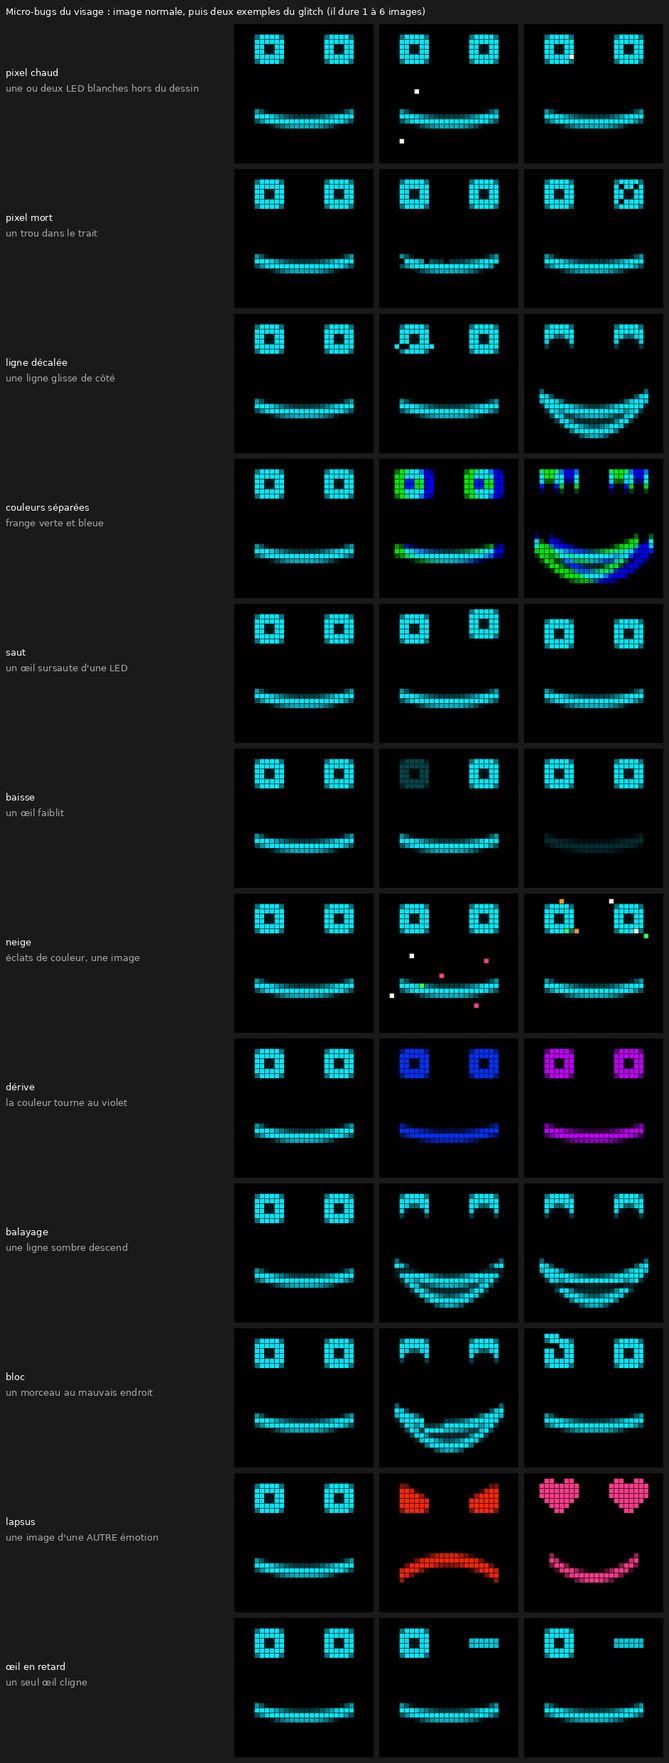
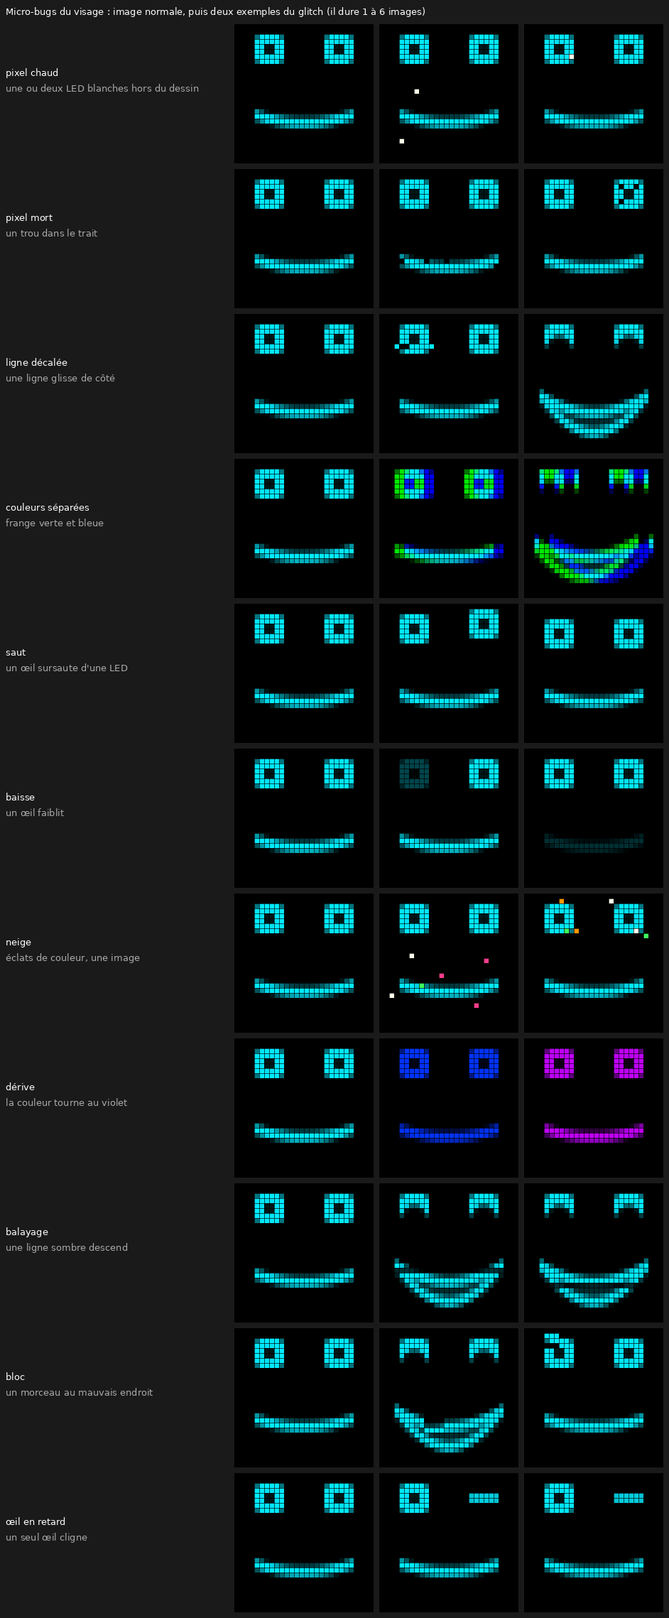
Étude visage §11 : décisions de David sur les glitchs, joué ou réel, GIF du résultat
Quoi : §11.6 (décisions) et §11.7 (comment distinguer un bug joué d'une vraie
panne) ; maquette_glitchs.py produit glitchs-resultat.gif (visage + ruban du
corps + LED témoin, 31 s : calme, montée, bug joué, retombée, vraie panne
réseau) ; lapsus retiré du catalogue ; calme à un micro-bug toutes les ~10 s.

Pourquoi : David (22/11) veut un calme un peu plus prononcé, pas de lapsus
(trop difficile à comprendre), et les vraies pannes dans la langue des glitchs
à condition de pouvoir faire la différence, animations LED du corps comprises.
Différence : une LED témoin côté David, pilotée UNIQUEMENT par la détection des
pannes (un bug joué ne peut pas l'allumer), plus l'allure (scintille / tient),
la montée et la durée. Reste à choisir la LED témoin.

diff --git a/docs/etudes/visage/maquette_glitchs.py b/docs/etudes/visage/maquette_glitchs.py
@@ -20,6 +20,8 @@ import maquette_visage as m
 
 ICI = Path(__file__).resolve().parent
 IPS = 20  # images par seconde du robot (tick de 50 ms)
+# Au calme, un micro-bug toutes les ~10 s (David, 22/11 : « un peu plus prononcé au calme »).
+P_CALME = 1 / (10 * IPS)
 
 
 # ---------------------------------------------------------------------------------------
@@ -143,7 +145,7 @@ CATALOGUE = [
     ("dérive", "la couleur tourne au violet", [avec(REPOS, derive, tour=0.12), avec(REPOS, derive, tour=0.28)]),
     ("balayage", "une ligne sombre descend", [avec(JOIE, balayage, ou=(2,), ligne=6), avec(JOIE, balayage, ou=(2,), ligne=9)]),
     ("bloc", "un morceau au mauvais endroit", [avec(JOIE, bloc, ou=(2,), cote=4, graine=6), avec(REPOS, bloc, ou=(0,), cote=3, graine=2)]),
-    ("lapsus", "une image d'une AUTRE émotion", [m.vignette(m.VOCABULAIRE["colère"]), m.vignette(m.VOCABULAIRE["amour"])]),
+    # « lapsus » (une image d'une autre émotion) : écarté par David le 22/11, trop difficile à comprendre.
     ("œil en retard", "un seul œil cligne", [assembler([zones(REPOS)[0], m.dessiner_oeil(m.replace(REPOS.oeil_d, hauteur=1.8, arrondi=0.6, pupille=0), miroir=True), zones(REPOS)[2]])] * 2),
 ]
 
@@ -207,7 +209,7 @@ def animation(sortie: Path) -> None:
                     z = [derive(x, tour=0.28) for x in z]
             else:
                 # micro-bugs : au calme un toutes les ~8 s, à tension 0,8 plus de deux par seconde
-                if en_cours is None and rng.random() < (0.006 + 0.14 * tension ** 2):
+                if en_cours is None and rng.random() < (P_CALME + 0.14 * tension ** 2):
                     effet, ou, dur, kw = MICRO[rng.integers(len(MICRO))]
                     en_cours, reste = (effet, ou[rng.integers(len(ou))], kw, int(rng.integers(1 << 30))), dur
                 if en_cours is not None:
@@ -227,6 +229,101 @@ def animation(sortie: Path) -> None:
     print("écrit", sortie.relative_to(m.RACINE), len(images), "images")
 
 
+# ---------------------------------------------------------------------------------------
+# Le résultat complet : visage + ruban du corps + témoin, joué puis réel.
+# ---------------------------------------------------------------------------------------
+ORANGE = np.array([255, 90, 0])
+VIOLET = np.array([150, 40, 255])
+N_CORPS = 28  # représentation réduite du ruban du corps (160 LED en vrai)
+
+
+def corps_chase(t: int, couleur=ORANGE, vitesse=1.0, k=1.0) -> np.ndarray:
+    """L'animation « chase me » du corps : un segment lumineux qui tourne sur un fond faible."""
+    ruban = np.tile((couleur * 0.12 * k).astype(np.uint8), (N_CORPS, 1))
+    tete = int(t * vitesse) % N_CORPS
+    for i in range(6):
+        ruban[(tete - i) % N_CORPS] = (couleur * k * (1 - i / 6)).astype(np.uint8)
+    return ruban
+
+
+def image_complete(z, ruban, temoin) -> np.ndarray:
+    """Visage (28x28) + ruban du corps (une ligne) + témoin, une LED à part."""
+    c = np.zeros((33, 32, 3), np.uint8)
+    c[:28, :28] = assembler(z)
+    c[30, :28] = ruban
+    c[30, 30] = temoin
+    return c
+
+
+def resultat(sortie: Path) -> None:
+    rng = np.random.default_rng(21)
+    images = []
+    plan = [  # (titre, durée s, mode)
+        ("calme — un micro-bug toutes les ~10 s", 12.0, "calme"),
+        ("ça monte", 4.0, "monte"),
+        ("BUG JOUÉ — le témoin reste éteint", 2.5, "bug"),
+        ("il se remet", 3.5, "remet"),
+        ("calme", 1.5, "calme"),
+        ("VRAIE PANNE : réseau perdu — témoin allumé", 6.0, "panne"),
+        ("réseau revenu", 2.0, "calme"),
+    ]
+    en_cours, reste, t = None, 0, 0
+    for titre, duree, mode in plan:
+        n = round(duree * IPS)
+        for i in range(n):
+            t += 1
+            tension = {"calme": 0.0, "monte": 0.05 + 0.75 * i / n, "bug": 1.0,
+                       "remet": 0.6 * (1 - i / n) ** 2, "panne": 0.0}[mode]
+            z = zones(REPOS)
+            ruban = corps_chase(t)
+            temoin = np.zeros(3, np.uint8)
+            if mode == "bug":
+                for k in range(3):
+                    z[k] = ligne_decalee(z[k], rng, lignes=2 if k == 2 else 1, dx=int(rng.integers(1, 4)))
+                    if rng.random() < 0.6:
+                        z[k] = couleurs_separees(z[k], dx=int(rng.integers(1, 3)))
+                    if rng.random() < 0.5:
+                        z[k] = neige(z[k], rng, n=3)
+                if i > n * 0.6:
+                    z = [derive(x, tour=0.28) for x in z]
+                # le corps s'emballe aussi : couleurs au hasard, segments qui sautent
+                ruban = np.roll(ruban, int(rng.integers(-6, 7)), axis=0)
+                for _ in range(6):
+                    ruban[rng.integers(N_CORPS)] = rng.integers(60, 256, 3)
+            elif mode == "panne":
+                # Une vraie panne ne SCINTILLE pas : elle s'installe et TIENT tant qu'elle dure.
+                # Signature « réseau » : le visage glisse au violet, le corps ralentit et pâlit.
+                f = min(1.0, i / (0.8 * IPS))
+                z = [derive(x, tour=0.28 * f) for x in z]
+                ruban = corps_chase(t, couleur=VIOLET, vitesse=0.35, k=0.6)
+                # Le témoin, vers David seulement : orange lent, 1 Hz (sous la règle des 3 flashs).
+                temoin = ORANGE.astype(np.uint8) if (i // (IPS // 2)) % 2 == 0 else np.array([60, 20, 0], np.uint8)
+            else:
+                if en_cours is None and rng.random() < (P_CALME + 0.14 * tension ** 2):
+                    effet, ou, dur, kw = MICRO[rng.integers(len(MICRO))]
+                    en_cours, reste = (effet, ou[rng.integers(len(ou))], kw, int(rng.integers(1 << 30)), rng.random() < 0.3), dur
+                if en_cours is not None:
+                    effet, ou, kw, graine, sur_corps = en_cours
+                    g = np.random.default_rng(graine)
+                    for k in ou:
+                        z[k] = effet(z[k], g, **kw)
+                    if sur_corps:  # un micro-bug sur trois saute aussi dans le corps
+                        ruban = np.roll(ruban, 3, axis=0)
+                    reste -= 1
+                    if reste <= 0:
+                        en_cours = None
+            cadre = m.agrandir(image_complete(z, ruban, temoin), 9)
+            im = Image.new("RGB", (cadre.width + 150, cadre.height + 30), (26, 26, 26))
+            im.paste(cadre, (0, 30))
+            d = ImageDraw.Draw(im)
+            d.text((6, 7), titre, fill=(230, 230, 230), font=m.POLICE)
+            d.text((cadre.width + 8, 30 + 30 * 9 - 2), "← corps, témoin", fill=(150, 150, 150), font=m.POLICE)
+            images.append(im)
+    images[0].save(sortie, save_all=True, append_images=images[1:], duration=1000 // IPS, loop=0)
+    print("écrit", sortie.relative_to(m.RACINE), len(images), "images")
+
+
 if __name__ == "__main__":
+    resultat(ICI / "glitchs-resultat.gif")
     planche(ICI / "glitchs-catalogue.png")
     animation(ICI / "glitchs-tension.gif")

diff --git a/docs/chantiers.md b/docs/chantiers.md
@@ -91,7 +91,7 @@ L2e, études UX autres que la télécommande, lots O2-O4.
 | **Autonomie et improvisation (pourquoi et quand Didier agit)** | **DÉCIDÉ le 02/11** — [`etude-autonomie-improvisation.md`](etude-autonomie-improvisation.md) : étude du 01/11 (4 collectes web, relecture adversariale, 7 bloquants repris) puis **10 questions tranchées par David** (§8, toutes dans le sens recommandé) : s'insère sans bousculer les priorités 0-1 ni L0-L5 (sim tout de suite, maison après le premier roulage au sol, rue après L0-L2) ; W1 avant la rue, odométrie avant A4 ; mouvement autonome seulement si **télécommande présente** (battement de cœur) ; **lidar 2D 360° sur le Pi 4** ; règles du 31/10 gardées avec « réclame ET amorce » ; **un seul décideur du corps = le sélecteur** (bouche et metteur en scène déposent des intentions) ; sélecteur **hybride py_trees + score** ; télécommande L4 = **deux modes MANUEL (Twist) / CONSOLE (macro)** ; désigner « lui/là » par la voix + le regard de Didier ; **13/09 re-tranché** : « un instrument qui joue seul dans le cadre que David a écrit ». Cadre de David : destination + obstacles-partenaires, télécommande macro, travail = timing (§4.2 : mission / pulsions / offres / sélecteur / exécution), marge d'erreur de DÉCISION large (il est derrière), aucune sur le CONTACT ; **08/11 : 1re partie A1 au casque = « pas jouable » — 11 défauts consignés dans [`seances/2026-11-08-a1-casque.md`](seances/2026-11-08-a1-casque.md) (3 réglés : clés du banc, micro fermé sur les gestes, voix trop forte) ; bloquants ouverts : la bouche invente l'espace, annonce un départ corps verrouillé, page scène = cockpit de ~30 boutons** ; **ÉTUDE « interaction en mouvement » ÉCRITE 08/11 (Fable) : [`etude-interaction-en-mouvement.md`](etude-interaction-en-mouvement.md) — le corps publie déjà tout (verrou, séance, pose, objets), la bouche ne lit rien ; 5 points à trancher, lot M6 « le corps raconte » proposé (Opus ~2 h)** | **Lots actés (§9)** : A-préalables (W1, battement de cœur, premier roulage au sol, calibration PWM) → **A0 corps sûr** (lidar Pi 4 + `didier_corps_sur` + lidar simulé ; porte : obstacle 0,5 m → zéro < 200 ms 20/20 y compris sur `moon-walk` ; protocole caméra + épreuve d'obstacle) → A+ timing/regard → A1 répertoire + sélecteur (sim, perception scriptée) → A2 perception → A3 metteur en scène → A4 rue (après odométrie). **A1 : PORTE TECHNIQUE PASSÉE en sim le 02/11** (spec `theatre-robot/docs/spec-A1-selecteur-de-jeu.md`, décisions §8 ; décision de David : A1 avant L1b) — `packages/didier_jeu` (arbre py_trees + score, 69 tests gravés + mutations), `jeu:=true` (régisseur remappé sur `jeu/chat_move`), scénario vide `jeu-a1`, panneau « Jeu » de la page scène, `rehearsal/objects` porte `x`/`y` ; `validate-jeu-a1.sh` **13 OK / 0 KO** (T1-T7, 15 min, 91 décisions, 6 arrêts de Didier, réaction 0,34-0,44 s, stop relayé en 1 ms) ; V-R3 sans `jeu` 21/21. **Reste : la relecture du journal par David** (spec §6 — séance du 02/11 : `20261102-185738_49404_jeu.jsonl`, copie hors conteneur dans `/tmp/a1-seance-20261102/` à mettre à l'abri), puis réglage au réel à l'arrêt. **A0 : SPEC ÉCRITE le 18/11 (Fable) — [`spec-A0-corps-sur.md`](spec-A0-corps-sur.md)** ; **19/11 (branche `a0-sim-filtre`, pas encore fusionnée) : A0-3 FAIT** (`packages/didier_corps_sur`, logique pure, 141 tests gravés, 11 mutants, septième suite de la CI) **et A0-2 FAIT en sim** (lidar C1 simulé publie `scan` à 10 Hz / 500 rayons, pont séparé `pont_lidar`, obstacle + `passant_sim_node` dans `stage` ; logique pure branchée sur le vrai `scan` : obstacle à 0,5 m → ARRET au balayage suivant (50-100 ms), 0,9 m → ralenti 0,15, passant à 1 et 1,5 m/s arrêté puis relâché, flanc et arrière masqués comme prévu ; **RTF : coût du lidar sous le bruit, 0,996 avec contre 0,991 sans → échelon 1 retenu** ; table de couverture 25 cm / 45 cm dans `hardware/overview.md` : les deux ne voient que l'AVANT, 25 cm reste le défaut ; points ouverts de la relecture d'A0-3 dans `packages/didier_corps_sur/README.md` : coins à 0,78 m contre `rayon_balayage` 0,65, masque `[90, 270]` provisoire — cotes et masques réels en A0-7). **A0-4 FAIT en sim le 20/11 (branche `a0-4`, pas encore fusionnée)** : nœud `corps_sur` EN LIGNE devant `twist_mux` (lancé par `drive.launch.py`, sans relance ; le mux lit `cmd_vel_*_sur`, la télécommande reste brute), contrats de topics, configurations `machines/sim` et `machines/robot`, **`validate-corps-sur.sh` 25/25** (porte de l'étude : obstacle à 0,5 m → zéro en 112-133 ms au pire sur 40 essais, à 20 et 5 Hz) et phase `corps_sur` de la fumée (rouge bloquant) ; mutant 12 (zéro anticipé supprimé) tué EN SIM par CS2d (13/20 sous 200 ms, max 301 ms) ; points ouverts de sécurité dans `packages/didier_corps_sur/README.md` § « A0-4 » (verrou `e_stop` : zéro en ≈ 0,43 s par le deadman, le mux ne publie pas de zéro ; un nœud figé > 0,30 s se verrouille seul). **21/11 : la fumée exige le corps sûr DU BRINGUP armé** avant chaque épreuve qui roule (`machines/sim/corps_sur_bringup.py`) ; un réarmement refusé ne tue plus le nœud. **Fumée de branche 2026-11-21-1929 ROUGE en V-R3 (19/21)**, sans pause thermique : le corps sûr du bringup s'est verrouillé seul (`capteur_perdu`) 5 min après le départ de la route, puis Didier est resté arrêté. C'est le point ouvert 2 (nœud figé, d'où un verrou) ; **il bloque une fumée verte, décision de David attendue** (README du package, point 2). Tout le reste est vert : edition 13/13, CS 25/25. **21/11 soir, option (b) décidée** : la sim est allégée sans toucher à la règle. `/clock` est décimé à 200 Hz par `relais_horloge` (C++), et Fast DDS passe en **UDP seul** : en mémoire partagée, des abonnés rclpy se figeaient 0,33 à 0,43 s, ce qui était la vraie cause des verrous spontanés. **Fumée 2026-11-21-2149 sur c8bd606 : tout vert sauf CONV (17/19)** : edition 13, CS 25, V-R3 21/21, A1 14, OBJ 13, aucun verrou spontané. CONV A3 juge le contenu d'une réplique du LLM. CONV D5 vient du corps sûr : après « va voir la table basse », Didier est garé à 0,55 m de la table, dans la zone ARRET, et ne peut plus reprendre la route seul. **Décision attendue** : où `aller_voir` s'arrête-t-il face à la marge de 0,60 m, ou comment sortir d'une zone ARRET ? Voir le README du package, point 7. **22/11 : le garage est décidé et fait** (`standoff_pour` + garde du corps sûr lue dans ses réglages : table 2,1 m, banc 2,5 m, E1d vu à 2,79 m en sim). **Fumée 2026-11-22-0123 sur 38cb978 : tout vert sauf CONV D5 (18/19)**, sans pause thermique : CS 25, V-R3 21, A1 14, OBJ 13. Didier se gare bien hors de la bande d'arrêt, mais la REPRISE (`RouteFollower.rejoin()`, en diagonale vers (20 ; 0)) frôle le coin de la table et entre en ARRET à 0,6 m. **22/11 : reprise décidée et faite** (ea08d43) : après un aller_voir, `rejoin()` rejoint d'abord la projection sur le segment courant, puis le waypoint. Sur la table basse (`test_route_reprise.py`), le centre de Didier reste à au moins 1,43 m de la table (0,63 avant) et la caisse ne frôle plus la bande ARRET. **Fumée de branche verte à faire sur ea08d43** : la fumée 2026-11-22-0515 a été faussée par le passage du PC sur batterie (profil Quiet à 05:24, en pleine épreuve CS), et les deux suivantes ont été refusées pour un RTF de 0,70-0,72. A3 (motif sur une question) n'est pas revenu en 3 rejeux. ⚠ Prochain déploiement du Pi robot : le package y part (`machine.yml`), et sans lidar AUCUNE piste roues de séquence ne tourne (spec §14). **Suite : A0-5** (page scène, réarmer) et **A0-6** (pilote, udev, Pi). Contenu de la spec, fermée : filtre en ligne AVANT le mux sur les trois canaux autonomes (`cmd_vel_anim|follow|web` → `…_sur`), logique pure + nœud mince, verrous capteur/superviseur/e_stop, refus de tout mouvement vers ce que le lidar ne voit pas, lidar simulé `gpu_lidar` (RTF à mesurer en tête d'A0-2 : la sim était prise le 18/11), 25 verdicts de fumée (`validate-corps-sur.sh`), banc puis protocole hors sol puis sol à la maison ; **10 sous-lots, 31 h d'agent dont 2 h de relecture adverse Fable avant tout roulage** ; A0-1 à A0-6 (22,5 h) faisables avant la livraison. **Lidar COMMANDÉ par David : SLAMTEC RPLIDAR C1** (UART 3,3 V à 460 800 bauds, 5 V, 800 mA au démarrage, 8-12 Hz, 0,72°, 0,05-12 m, 40 000 lux annoncés — fiche lue le 18/11), **livraison estimée fin novembre - début décembre** ; pilote à compiler depuis les sources (`sllidar_ros2` : le binaire Jazzy `rplidar_ros` 2.1.0 ne porte pas le C1). **3 questions pour David (spec §13), RÉPONDUES le 18/11** : face avant (25 cm caisse par défaut, 45 cm porte en repli), essai Nav2 sauté, A0-2/A0-3 lancés en parallèle d'O0-O1. ⚠ Incohérence relevée : `hardware/overview.md` § lidar et la ligne « Détection d'obstacle » plus bas disent « arc avant suffisant, 360° inutile » ; la décision du 02/11 (arrêt sur 360°) prime, correction au sous-lot A0-7 | chemin roues touché en A0 = exception nommée à « intouché avant L4 », sim + protocole caméra étendu ; robot en pièces ; 15/29 séquences à piste roues → enveloppe sur TOUTES les entrées autonomes ; chiffres de timing = réglages de départ, aucun sourcé |
 | **UI télécommande sans X11 (remplace tkinter)** | ⤴ **ABSORBÉ le 01/11 dans « Architecture globale »** (on ne tranche pas l'UI avant l'architecture). PROPOSÉ le 01/11, **rien d'acté ni de codé**. Revue du code tkinter de `dadou_control_ros` : les entrées (gamepad, gants, sliders) sont lues dans les `after()` Tk et la boucle Tk est pilotée par un timer ROS 10 Hz → **les roues dépendent de l'écran** (un `sleep`/chargement GUI fige la conduite ; deadman 400 ms rattrape). Architecture proposée, tout sur le Pi télécommande : `controller_inputs_node` headless (RP2040, gamepad, gants, sliders → ROS) + `controller_core` Python pur (menus/playlist/MODE, menu inerte si homme-mort tenu) + afficheurs : HDMI/DSI **tactile** en pygame SDL2 kmsdrm sans X11, LCD SPI 2,4" (boutons), vue web plus tard. **Objectif ajouté le 01/11 : afficher la télécommande dans la page scène** (`didier_web/static/scene.html`) → frontière headless/GUI = **topics ROS** : le cœur publie `remote/ui_state` (JSON du menu, latché) et écoute `remote/ui_action` ; écran du Pi et panneau web sont deux afficheurs du même état, le web_bridge n'ajoute que ces 2 topics à sa whitelist ; en sim le cœur tourne dans le conteneur sim (menu testable sans matériel). **Règle : une action d'origine web ne touche jamais les roues via le menu** (MODE, vitesse route) — roues web = `cmd_vel_web` prio 50 uniquement. Web SUR l'écran du Pi écarté (cage + Chromium plus lourd que X11+Tk). **Précisé le 01/11 : la Pi Zero 2 W est pour un DEUXIÈME GANT** (petit écran discret, moins d'info), le Pi 4 reste la télécommande principale → un cœur par appareil, espaces de noms séparés (`remote/…`, `glove2/…`) ; « moins d'info » = filtrage dans l'afficheur, pas dans le cœur. **Afficheur : essai comparatif pygame (SDL2 kmsdrm) vs WPE WebKit `cog` (navigateur DRM sans X11) décidé** — critères : RAM mesurée et réactivité du toucher sur la vraie carte ; si `cog` tient sur la Zero 2 W il gagne (une seule interface HTML pour le Pi et la page scène) | **Mesure RAM FAITE le 01/11** sur `control` (Pi 4, Pi OS trixie, 192.168.1.25, alias `c`) : conteneur télécommande **113 Mo PSS** (controller_node 99 Mo RSS avec tkinter) ; dockerd+containerd ~150 Mo RSS ; bureau labwc+Xwayland+panneau+portails **~490 Mo RSS** (tkinter s'affiche via Xwayland, pas de X11 pur) ; total 552/3795 Mo. ⚠ `docker stats` affiche 0 o : comptabilité mémoire cgroup coupée sur le noyau Pi → sommer le PSS des PID de `docker top`. **Zero 2 W du gant installée le 01/11** (hôte `gr`, 192.168.1.123, Pi OS Lite trixie 64 bits) : **415 Mo visibles, 144 Mo utilisés au repos** (l'estimation de 80 Mo était fausse). Verdict : bureau IMPOSSIBLE ; sans bureau AVEC Docker ≈ 407/415 Mo (à la limite, sans marge) ; sans Docker ≈ 257 Mo → **Docker sur le gant penche vers NON**, à confirmer en mesurant le vrai node du gant. Schémas du plan : [`architecture-ui-telecommande.html`](architecture-ui-telecommande.html). Suite : lot 1 = extraction du node d'entrées | lot 1 = **chemin roues** → sim puis protocole caméra ; gant Zero 2 W : 512 Mo pour Docker+ROS 2 non mesuré, **Wi-Fi 2,4 GHz seul** (salle pleine = bande saturée, à tester en salle), 1 seul USB OTG (hub) ; pygame kmsdrm DANS Docker non vérifié |
 | **Danse en cadence (chanson + gestes à la con)** | ÉTUDE ÉCRITE le 01/10 — [`etude-danse.md`](etude-danse.md), **rien d'acté**. Verdict : faisable, le lecteur de séquences fait déjà 80 % du travail ; ce qui manque = grille de beats précalculée (librosa : 3 chansons du corpus mesurées, 96-161 BPM, écart-type inter-beat 16-25 ms), écriture des figures **en temps musicaux** + compilateur vers le JSON existant (zéro changement embarqué), et **deux retards à mesurer** (démarrage du son — `playsound` dans un `Process`, aucun horodatage — et parcours des servos). ⚠ Bras ASME annoncés **1 s/60° à 12 V** : le tempo se joue au cou, aux yeux et au visage, les bras marquent la mesure | **D0** outillage PC (`extract_beats.py`, `compile_dance.py`, tests à valeurs gravées, WAV) puis **D1** première danse en sim avec banc de calage automatique (`check-dance-timing.py`, vrai code) — les deux **sans le robot** | D2 (mesure du retard son, gigue, tension rail servo) ⟸ dégel du Pi 4 ; D4 déambulation ⟸ test scénique (1) ; ⚠ **le cas visé est « danser EN SUIVANT »** (précisé par David le soir même, étude §7 bis) : le mux ne superpose pas, la cadence des roues se compose DANS `follow_control` (modulation bornée ≤ suivi, freeze sur le temps fort), l'odométrie calibre le retard roues mais ne résout que la MESURE (80-300 ms/impulsion), pas le temps → hérite de TOUS les verrous du suivi au sol ; une piste `wheels` de séquence ne sert qu'aux danses à l'arrêt |
-| **Visage (dessin, animation, lumière)** | ÉTUDE ÉCRITE le 22/11 — [`etude-visage.md`](etudes/etude-visage.md), **§8 TRANCHÉ par David le 22/11** (pupille mobile, cyan, fin du visage jaune, feu vert V0 bis/V1) ; **lot V1-images FAIT le 22/11** : 13 expressions redessinées dans les données (noms gardés, 4 nouvelles), bouche pleine largeur ; **rejoué en sim (13 OK) et DÉPLOYÉ sur le Pi du robot le 22/11** (écart vert, `default` chargé sans erreur ; visuel sur les LED à faire par David). **Glitchs et micro-bugs : étude §11 proposée le 22/11** (12 effets en calque, tension, annonce des bugs joués, règle des 3 flashs), 3 questions à David. Verdict : le dessin « néon » est bon, ce qui manque c'est la vie et la cohérence (rien ne se combine, 2 expressions sur 27 clignent, bouche en boucle de 800 ms, et la conversation renvoie sur l'ancien visage jaune après chaque réplique). Proposé : visage **paramétrique** à calques (une expression = dix nombres), vie au repos, état « écoute », charte à une couleur. Matériel plus fin écarté pour février. Découvertes de la relecture : un affichage du ruban bloque ~31 ms et le corps l'anime déjà ~10 fois/s ; **les LED sont sur le 5 V du Pi des roues** | **V0 bis** : cadence réelle du ruban sur le Pi (avant toute spec), puis V1 (spec + rendu en sim) ; **V0** : mesure de jour | ⚠ V0 monte la luminosité sur le rail du Pi 4 de contrôle : **roues neutralisées**, paliers et `get_throttled` (protocole §7) |
+| **Visage (dessin, animation, lumière)** | ÉTUDE ÉCRITE le 22/11 — [`etude-visage.md`](etudes/etude-visage.md), **§8 TRANCHÉ par David le 22/11** (pupille mobile, cyan, fin du visage jaune, feu vert V0 bis/V1) ; **lot V1-images FAIT le 22/11** : 13 expressions redessinées dans les données (noms gardés, 4 nouvelles), bouche pleine largeur ; **rejoué en sim (13 OK) et DÉPLOYÉ sur le Pi du robot le 22/11** (écart vert, `default` chargé sans erreur ; visuel sur les LED à faire par David). **Glitchs et micro-bugs : étude §11 proposée le 22/11** (11 effets en calque, tension, annonce des bugs joués, règle des 3 flashs) ; **décidé le 22/11** : calme un peu plus prononcé (1 micro-bug / 8-12 s), pas de lapsus, vraies pannes en glitch AVEC une LED témoin côté David et le ruban du corps inclus (§11.7) ; reste à choisir la LED témoin. Verdict : le dessin « néon » est bon, ce qui manque c'est la vie et la cohérence (rien ne se combine, 2 expressions sur 27 clignent, bouche en boucle de 800 ms, et la conversation renvoie sur l'ancien visage jaune après chaque réplique). Proposé : visage **paramétrique** à calques (une expression = dix nombres), vie au repos, état « écoute », charte à une couleur. Matériel plus fin écarté pour février. Découvertes de la relecture : un affichage du ruban bloque ~31 ms et le corps l'anime déjà ~10 fois/s ; **les LED sont sur le 5 V du Pi des roues** | **V0 bis** : cadence réelle du ruban sur le Pi (avant toute spec), puis V1 (spec + rendu en sim) ; **V0** : mesure de jour | ⚠ V0 monte la luminosité sur le rail du Pi 4 de contrôle : **roues neutralisées**, paliers et `get_throttled` (protocole §7) |
 | **Banc témoin (démo + vérif sur matériel réel)** | ANALYSE ÉCRITE le 07/11 — [`etude-banc-temoin.md`](etudes/etude-banc-temoin.md), **rien d'acté**. Question de David : mini-robot pas cher pour la démo, ou carte I²C pour la CI ? Verdict : mini-robot roulant REPORTÉ à l'arrivée du lidar (aucun Pi libre, rien ne se transfère à Didier) ; carte I²C « décorative » non ; **banc témoin** oui = Pi du robot (prêté pendant la refonte) + PCA9685 de rechange + matrice WS2812 + 74AHCT125, AUCUN moteur, tout du stock, zéro achat ; test phare = deadman roues mesuré sur le vrai PWM | décision de David ; si oui : B0 câblage (David ~1 h) → B1 `banc-temoin.sh` (Opus, après lot F) → B2 Pico témoin | ne remplace PAS le protocole caméra roues hors sol ; jamais de driver ni moteur sur le banc |
 | **Répétition simulée (rue + bugs + casque)** | ÉTUDE ÉCRITE le 07/10 — [`etude-repetition-simulee.md`](etude-repetition-simulee.md), **rien d'acté**. Demande de David : s'entraîner dans une ville simulée où Didier le suit, où les bugs tombent et où commence « la mauvaise foi », au casque Bluetooth. Verdict : les deux tiers existent (banc PC du 13/09 = vrai `chat_node` + vrai `person_tracker` + casque BT via PipeWire, corps Gazebo) ; manquent **une rue** (`stage.sdf` est un plancher nu), **un David virtuel vu par la vraie perception** (le tracker ne lit que `/dev/video0` → param `camera_topic`), **un régisseur de pannes** sim-only à deux canaux (technique : kill/drop/delay/bruit à l'EXTÉRIEUR du code de prod ; joué : instruction persona) dont David ignore le tirage, et le **persona mauvaise foi**. C'est le verrou de sortie de la phase C d'`etude-interaction.md` (« une déambulation se joue de bout en bout en sim avec David »). ⚠ La sim entraîne le DUO et le réflexe « panne = jeu », pas le triangle avec de vrais passants (un passant LLM serait complaisant : 54 % des saluts de robot restent sans réponse en vrai) **VARIANTE RETENUE le 07/10 (§12)** : Didier **chemine seul** dans la rue (suiveur d'itinéraire sim-only sur le créneau prio 20 du mux, suivi de personne OFF), la perception regarde la **webcam réelle** (David devant l'écran), points d'intérêt → événements → instruction de jeu. R0/avatar passent en OPTION. **R1 CODE FAIT le 07/10** (`didier_rehearsal` + `rue.sdf` + vérité terrain gz, 30 tests gravés) ; **vérifié en sim** : trajet complet 0 → 59,6 m en 150 s, 9 POI enter/exit dans l'ordre, `finished` ; **protocole `validate-rehearsal-route.sh` : 6/6 le 2026-10-08** (départ 8,2 m en 20 s, télécommande prio 100 écrase, POI enter/exit, arrivée x = 59,5, « finished », zéro franc < 700 ms après `route off`) ; ⚠ découverte : `/odom` DiffDrive ne voit pas une téléportation → le cheminement lit `/ground_truth/odom`. **profil fader télécommande FAIT le 08/10** (`dadou_control_ros` : `SLIDERS_PROFILE=repetition`, 13 tests gravés) → **R1 CLOS**. **R2 canal technique FAIT le 07-08/10** : régisseur (`director`, scénario YAML validé + graine → timeline déterministe, exclusion par cible, abort), relais de pannes sur `cmd_vel_follow` (drop/delay/freeze/zero, **chien de garde** : régisseur muet > 1 s → passant), pause/kill en liste blanche (jamais la chaîne de sécurité), `kill` de route_driver = respawn 5 s + `route on` (le reboot-prétexte), journal JSONL (`robot/diagnostic/journal.py`, format boîte noire) ; **V-R2 8/8** (chien de garde vérifié en gelant le régisseur pendant un `zero` : Didier repart < 2,5 s). 60 tests gravés R1+R2. **Revue adversariale FAITE le 08/10** : 4 invariants faux corrigés le jour même (relance après kill conditionnée à l'état route + à l'ordre de David, gardien SIGCONT détaché pour les pauses, durée max dans le relais, t_wall strict au journal) + garde-fou `ROS_DOMAIN_ID=43` dans les 3 nodes (refus vérifié en conteneur) + 9 trous de mutation fermés ; **V-R2 rejoué 8/8 après corrections**. **Démo du 08/10** (séance complète regardée en direct par David dans la fenêtre Gazebo, `docs/pictures/repetition-simulee/`) : a révélé un **vrai défaut** — la relance après reboot reposait sur un `route on` unique, perdu pendant la découverte DDS → corrigé en **boucle fermée** (état latché `route_state` publié par route_driver, ré-essai 1 s, `route_reenable` journalisé seulement à la confirmation ; vu en sim : 2 messages perdus, le 3e passe, Didier finit la rue). Outils de débrief embryonnaires : `conf/scripts/rehearsal/` (capture caméra + trajectoire, carte de séance). **R3 « Chantiers » FAIT le 14/10** (monde Nefs → Titan grise, 20 bugs + 30 lubies, persona mauvaisefoi, page scène `/scene`, V-R3 technique — détail §Répétition simulée ci-dessous). **I1 « mouvement à la voix » CODE FAIT le 22/10** (§13.11 : clé `marche` go/stop → `rehearsal/chat_move` → régisseur seul, par `route`/`route_speed`, jamais contre un `off` de David — cause latchée `route_state_cause` publiée par route_driver ; revue adversariale corrigée le 22/10 ; tests gravés + mutations dans les deux dépôts) — **à vérifier en sim**. **Corps qui suit la conversation (31/10-01/11, `spec-aller-voir.md`)** : M1 « aller voir » (manœuvre bornée), M2 gestes chiffrés (regarder tête PROD, tourner/avancer sim), **M3 « faire le tour de X » (01/11 : orbite sur la géométrie de collision SDF, 13 POI avec tour, vérifié en sim : tour complet des poubelles 14,9 m)**, **M4 tâche en cours (01/11 : une demande humaine enchaîne ses gestes d'elle-même jusqu'à « c'est fini » ; vérifié en sim)**. Bouche = GPT-6.1 Sol à l'essai (banc des modèles : `etude-niveaux-reflexion.md` §11). Reste : suites de gestes plus riches, image jointe à la bouche, prompt (vieux bloc GPT photo/nom). Suite = **V-R3 séance** avec David (+ vérif I1), puis I0, vitesse au **fader du boîtier déjà en stock** (profil « répétition » de la télécommande) + **vraie télécommande en `ROS_DOMAIN_ID=43` [DÉCIDÉ 07/10]** — ⚠ avant le retour du robot : bandeau SIM/RÉEL sur la GUI de la télécommande, bascule explicite (une télécommande oubliée en 42 atteindrait le vrai Didier), R2 régisseur technique, R3 personnage (dépend d'I0), R4 enregistrement/débrief, R5 passant (optionnel) | **aucun côté robot** — tout se fait pendant le gel du Pi 4, domaine 43, zéro code de pannes dans le bringup. arbitrages §8 (2 tranchés le 07/10) ; voix §10 sans re-trancher V0 ; **§11 architecture + tests** : carte prod/sim-only (`robot_health` latché, presets voix, persona, journal = boîte noire → PROD ; `didier_rehearsal` autonome → SIM-ONLY, test anti-fuite), tests à valeurs gravées + mutation, vérifs V-R0…R3 rejouables |
 | **Standards de la robotique (ROS toujours le bon choix ?)** | **DÉCIDÉ le 11/11** — [`etude-standards-robotique.md`](etudes/etude-standards-robotique.md) §0 : recommandations acceptées par David. ROS + Jazzy confirmés (fin de support mai 2029) ; `ros2_control` écarté pour les roues (**l'étape 5 devient « contrat `odom`/TF + briques Nav2 choisies »**) ; Nav2 par morceaux. **FAIT le 11/11 : CI à la racine** (`.github/workflows/tests.yml`, six suites ; sept depuis A0-3, 19/11) et règle « physique = typé » dans `theatre_contrats`. **Lyrical + Zenoh : banc d'essai réversible, après L5 ET la refonte électrique** | analyse de risques d'une page (séance avec David) ; puis, à leur lot : boîte noire `rosbag2` MCAP, essai du moniteur de collision Nav2 (A0), actions ROS pour les déplacements (A2) | **pas d'assurance à ce jour** : responsabilité civile couvrant le robot = préalable à la première sortie publique roues actives |

diff --git a/docs/etudes/etude-visage.md b/docs/etudes/etude-visage.md
@@ -458,14 +458,14 @@ remet : [`visage/glitchs-tension.gif`](visage/glitchs-tension.gif) (la barre ora
 | Échelle | Durée | Ce que c'est | Qui décide |
 |---|---|---|---|
 | **Micro-bug** | 50 à 300 ms, une zone, quelques LED | une **texture** : l'expression reste lisible, ce n'est pas un événement | personne : tiré au hasard, à un rythme fixé par la tension |
-| **Accroc** | 0,3 à 1 s, visible de loin | un **signe** : dérive de couleur, lapsus, œil en retard, gel | une séquence, la conversation ou le sélecteur, à l'unité |
+| **Accroc** | 0,3 à 1 s, visible de loin | un **signe** : dérive de couleur, œil en retard, gel | une séquence, la conversation ou le sélecteur, à l'unité |
 | **Bug joué** | 3 à 15 s | une **scène** : le catalogue de [`etude-improvisation.md`](etude-improvisation.md) §2 | le sélecteur, avec annonce, veto et plafonds |
 
 Les micro-bugs ne remplacent donc pas les bugs joués : ils les **préparent** et les **prolongent**.
 
 ### 11.2 Le catalogue
 
-Douze effets, tous des calques : ils abîment l'image en cours, quelle que soit l'expression.
+Onze effets, tous des calques : ils abîment l'image en cours, quelle que soit l'expression.
 
 | Effet | Portée | Sens possible |
 |---|---|---|
@@ -476,7 +476,6 @@ Douze effets, tous des calques : ils abîment l'image en cours, quelle que soit 
 | baisse (un œil ou la bouche faiblit) | de loin | il s'éteint, il faiblit |
 | dérive de couleur | de loin | « ce n'est plus tout à fait lui » |
 | œil en retard | de loin | un œil qui cligne seul : fatigue, ou clin d'œil raté |
-| **lapsus** : une image d'une autre émotion | de loin | ce qu'il pense vraiment, le temps d'un éclair |
 
 Réserve honnête : les effets à une LED ne se lisent que de près (une LED à 15 m fait 1,9′). En
 rue ils seront vus par le premier cercle, à 3-5 m — là où se joue la rencontre. Pour porter loin,
@@ -495,13 +494,12 @@ ce sont les quatre derniers qui comptent.
    présage.
 3. **La retombée.** Après un bug, des micro-bugs de plus en plus rares : « il se remet ». Un bug
    n'est plus un interrupteur, il a une queue.
-4. **Le lapsus.** Didier dit « tout va très bien » et son visage affiche la colère pendant deux
-   images. À manier rarement : c'est l'effet le plus fort du catalogue.
+4. ~~Le lapsus~~ (un éclair d'une autre émotion) : **écarté par David le 22/11**, « trop
+   compliqué à comprendre » ; à reconsidérer plus tard.
 5. **Une signature par état**, au lieu du hasard pur : amoureux → pixels roses qui débordent ;
    triste → pixels morts, baisse ; en colère → lignes déchirées ; fatigué → œil en retard.
-6. **Les vraies défaillances dans la même langue.** Réseau perdu, oreille en échec, batterie
-   basse : chacune avec sa signature. Une vraie dégradation ressemble alors au personnage, et
-   David la lit sur le visage. Condition : le panneau Coulisses dit laquelle est réelle.
+6. **Les vraies défaillances dans la même langue** — **retenu par David le 22/11, à condition
+   qu'il puisse faire la différence, et en incluant les animations LED du corps** (§11.7).
 
 ### 11.4 Garde-fous
 
@@ -531,14 +529,51 @@ moteur d'images **actuel**, sans attendre le visage paramétrique.
 |---|---|---|
 | **G0** | module pur des 12 effets + tirage à graine dans `didier_core`, branché sous `Face` ; sujets relatifs `face_tension` (0 à 1, latché, périmé) et `face_glitch` (un accroc à l'unité) | tests à valeur gravée (graine fixe → image attendue) ; aperçu sim ; règle des 3 flashs testée |
 | **G1** | le sélecteur publie la tension ; l'annonce d'un bug joué devient une rafale ; retombée | épreuve IMPRO : rafale vue avant chaque bug non ordonné, tension nulle après STOP IMPRO |
-| **G2** | signatures par émotion, lapsus à la demande de la conversation, signatures des défaillances réelles | visuel de David en sim, puis sur le robot |
+| **G2** | signatures par émotion, signatures des défaillances réelles avec témoin (§11.7), calque étendu au ruban du corps | visuel de David en sim, puis sur le robot |
 
 À terme les boucles dessinées `repos glitch`, `fuzz` et `glitch total` laissent la place au calque
 (lot V5) ; rien n'est supprimé avant.
 
-### 11.6 Questions pour David
+### 11.6 Décisions de David (22/11)
 
-1. ~~Au calme~~ — **tranché le 22/11** : un peu plus prononcé que « presque rien », soit un
-   micro-bug toutes les 8 à 12 s.
-2. **Le lapsus** : on le garde ?
-3. **Les vraies défaillances** affichées dans la langue des glitchs : oui ou non ?
+1. Au calme : **un peu plus prononcé** — un micro-bug toutes les 8 à 12 s.
+2. Lapsus : **non pour l'instant**, trop difficile à comprendre ; peut-être plus tard.
+3. Vraies pannes dans la langue des glitchs : **oui**, s'il peut faire la différence, et **le
+   ruban du corps en fait partie**.
+
+### 11.7 Joué ou réel : comment David fait la différence
+
+Résultat complet, visage + corps + témoin, 31 s : calme, montée, bug joué, retombée, puis une vraie
+panne de réseau et son retour — [`visage/glitchs-resultat.gif`](visage/glitchs-resultat.gif).
+
+Quatre différences, dont **une seule suffit** à David (le témoin) ; les trois autres sont là pour
+que les deux restent lisibles même s'il ne le regarde pas :
+
+| | Bug joué, micro-bug | Vraie panne |
+|---|---|---|
+| **Témoin** — une LED du ruban du corps, placée du côté de David | **éteint, toujours** | allumé, orange, clignotement lent (1 par seconde) |
+| Allure | **scintille** : des éclats qui vont et viennent | **s'installe et tient** : une signature fixe, tant que la panne dure |
+| Montée | précédé de micro-bugs de plus en plus serrés (la tension) | arrive d'un coup, sans montée |
+| Durée | 15 s au plus | tant que la panne dure, puis retour net |
+| Coulisses | « BUG JOUÉ : … » | « PANNE : réseau » |
+
+**Le ruban du corps** suit les mêmes règles : un micro-bug sur trois y fait sauter l'animation ;
+un bug joué l'emballe (couleurs au hasard, segments qui sautent) ; une panne réelle y pose sa
+signature (couleur et vitesse).
+
+Signatures de départ, à affiner avec David au visuel :
+
+| Panne réelle | Visage | Corps |
+|---|---|---|
+| réseau perdu (la tête ne répond plus) | glisse au violet et y reste | animation ralentie, violette |
+| oreille en panne (micro, reconnaissance vocale) | les yeux faiblissent | animation pâlie |
+| batterie basse | pixels morts de plus en plus nombreux | le ruban s'éteint par un bout |
+
+Règle de fond : **le témoin n'est piloté que par la détection des pannes**, jamais par le
+répertoire, la conversation ou le sélecteur. Un bug joué ne peut donc pas l'allumer, par
+construction. Le dessin de l'animation de la panne peut ressembler à un bug ; le témoin, non.
+
+Reste à décider : **quelle LED sert de témoin**. Il faut qu'elle soit visible depuis là où tu te
+tiens en jeu et le moins possible du public : sans doute au dos ou sur un flanc. Si c'est une LED
+du ruban existant, aucun achat ni câblage. Plus tard, la télécommande pourra aussi vibrer ou
+l'afficher.
